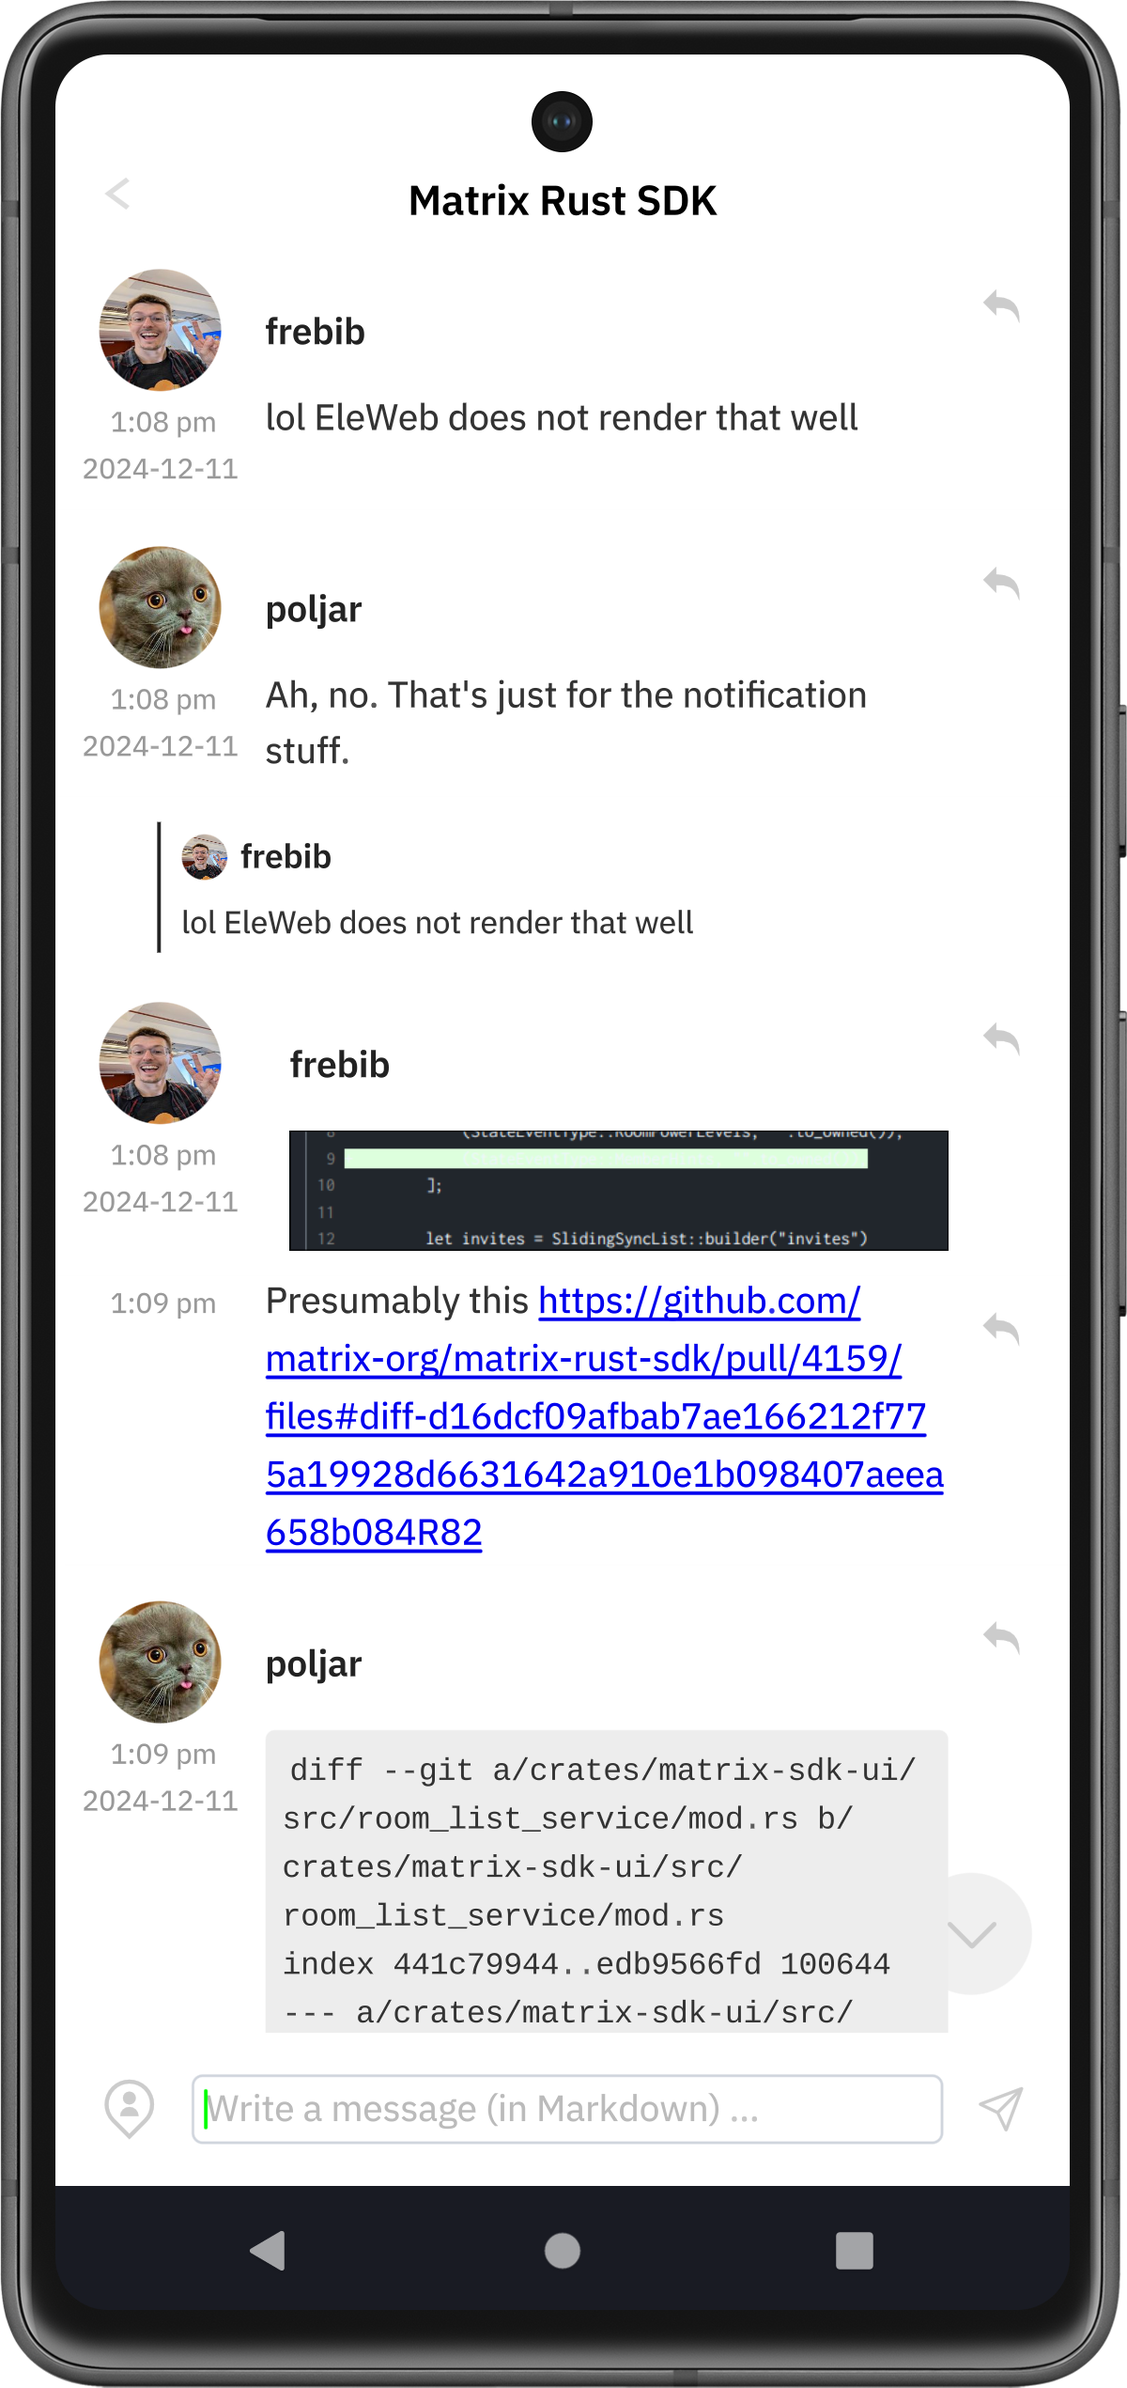
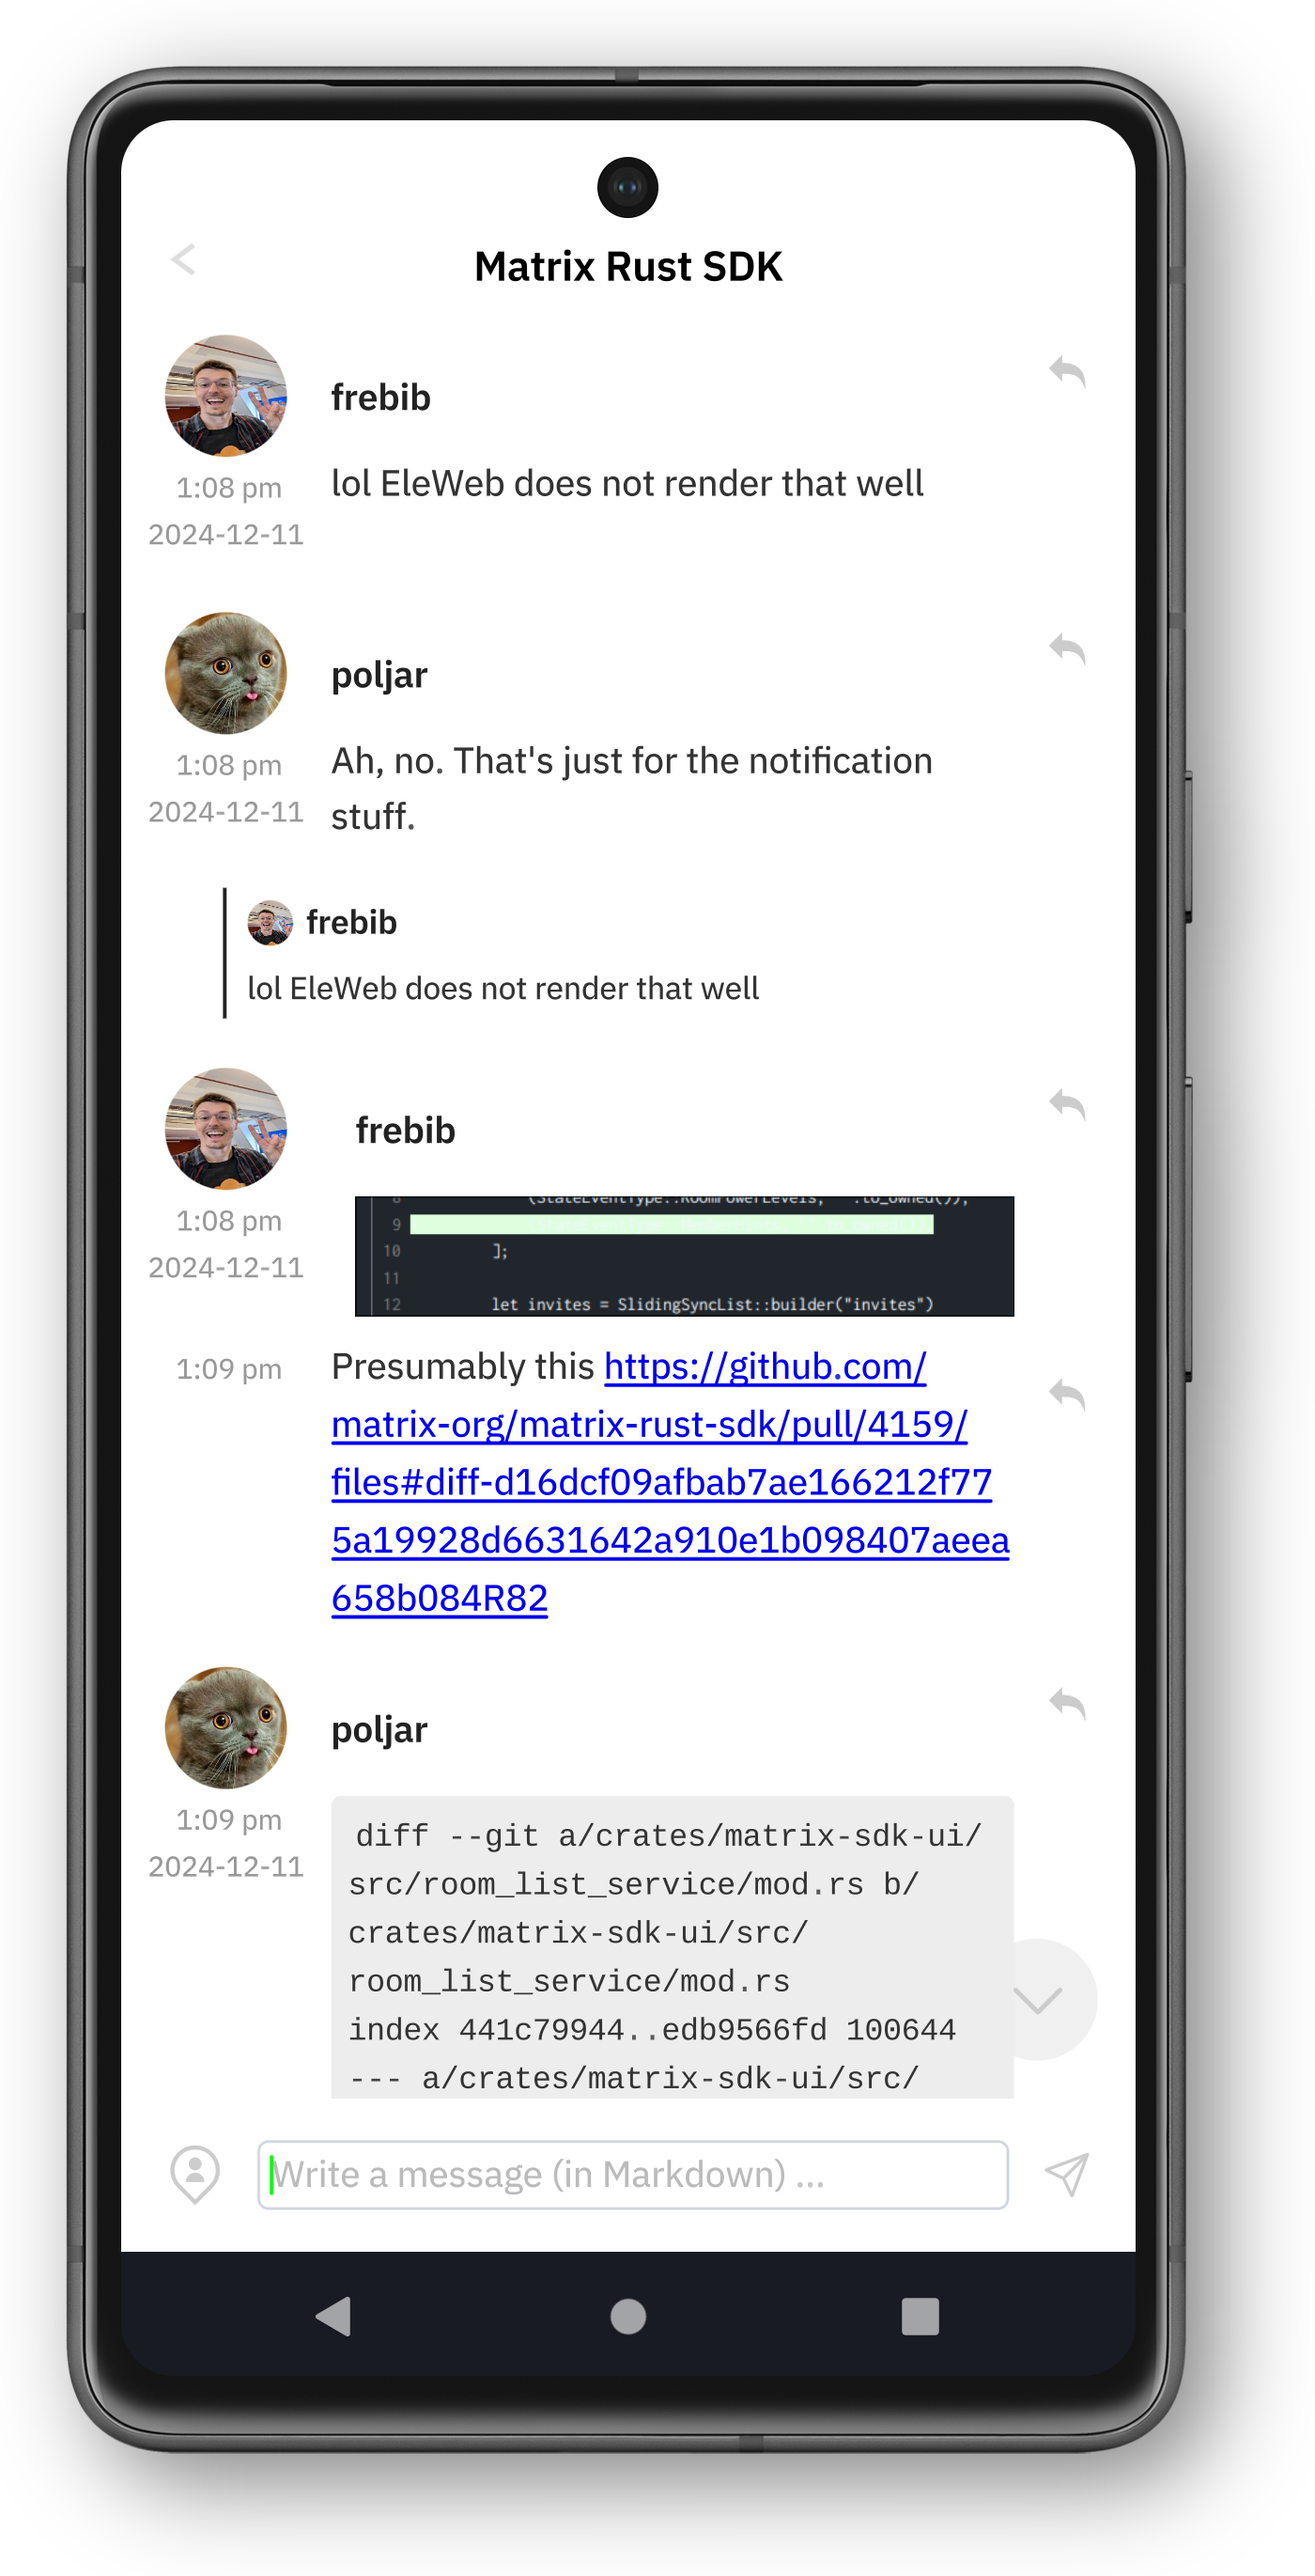
fix image formatting, for real

diff --git a/content/blog/2024-12-28-robius-retrospective-2024.md b/content/blog/2024-12-28-robius-retrospective-2024.md
@@ -56,9 +56,9 @@ Another cool feature is that Robrix's UI can automatically transition to differe
 For example, we frequently enjoy using the mid-size tablet view (below, left) or the narrow mobile view (below, middle) on a smaller laptop screen too, in addition to on our smartphones (below, right).
 
 <p float="left">
-  <img align="middle" alt="Robrix mid-size UI view" src="robrix_midsize_ui.png" width="44.4%" />
-  <img align="middle" alt="Robrix narrow mobile UI view of the rooms list" src="robrix_mobile_view_rooms_list.png" width="28.5%" />
-  <img align="middle" alt="Robrix narrow mobile UI view on Android of a single room" src="robrix_android_view_single_room.png" width="23%" />
+  <img align="middle" alt="Robrix mid-size UI view" src="robrix_midsize_ui.png" width="43%" />
+  <img align="middle" alt="Robrix narrow mobile UI view of the rooms list" src="robrix_mobile_view_rooms_list.png" width="27.5%" />
+  <img align="middle" alt="Robrix narrow mobile UI view on Android of a single room" src="robrix_android_view_single_room.png" width="25.9%" />
 </p>
 
 
